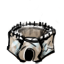
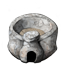
new fortress image, placement and plural in shop

diff --git a/client/app/assets/javascripts/awe/UI/fortressview.js b/client/app/assets/javascripts/awe/UI/fortressview.js
@@ -76,7 +76,7 @@ AWE.UI = (function(module) {
         _imageView = AWE.UI.createImageView();
         _imageView.initWithControllerAndImage(my.controller, AWE.UI.ImageCache.getImage(_fortressImageName));
         _imageView.setContentMode(module.ViewContentModeNone);
-        _imageView.setFrame(AWE.Geometry.createRect(0, 6, AWE.Config.MAPPING_FORTRESS_SIZE, AWE.Config.MAPPING_FORTRESS_SIZE));
+        _imageView.setFrame(AWE.Geometry.createRect(0, 4, AWE.Config.MAPPING_FORTRESS_SIZE, AWE.Config.MAPPING_FORTRESS_SIZE));
         _imageView.onClick = that.onClick;
         _imageView.onMouseOver = that.onMouseOver;
         _imageView.onMouseOut = that.onMouseOut;
@@ -110,7 +110,7 @@ AWE.UI = (function(module) {
       if (!_flagView) {
         _flagView = AWE.UI.createAllianceFlagView();
         _flagView.initWithController(my.controller);
-        _flagView.setFrame(AWE.Geometry.createRect(27, 37, 8, 13));
+        _flagView.setFrame(AWE.Geometry.createRect(27, 39, 8, 13));
         _flagView.setAllianceId(allianceId);
         _flagView.setDirection('down');
         _flagView.onClick = that.onClick;

diff --git a/client/app/assets/javascripts/awe/controller/mapcontroller.js b/client/app/assets/javascripts/awe/controller/mapcontroller.js
@@ -1693,7 +1693,7 @@ AWE.Controller = (function(module) {
     var setFortressPosition = function(view, frame) {
       view.setCenter(AWE.Geometry.createPoint(
         frame.origin.x + frame.size.width / 2,
-        frame.origin.y + frame.size.height / 2 - 5
+        frame.origin.y + frame.size.height / 2 - 14
       ));
     }
     
